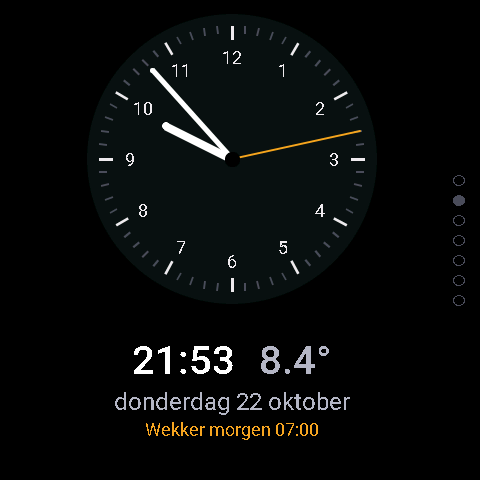
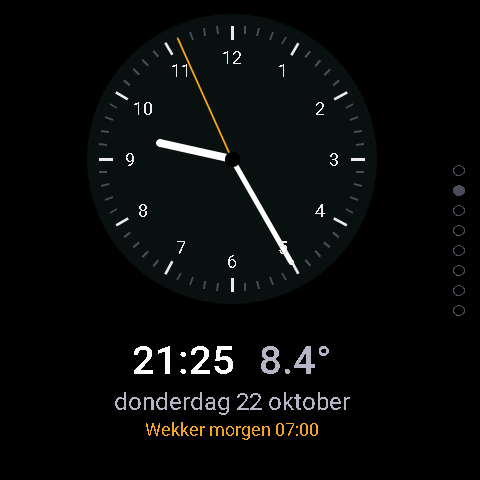
Klokontwerp Vierkant: analoge klok over het hele scherm
Diepblauwe vierkante wijzerplaat met dunne cijfers 12, 2, 4, 8 en 10,
streepjes voor de andere uren, een minutenrand langs de vierkante rand
(alarmklok::vierkant_rand, getest), slanke wijzers, een kleine
secondeteller en datum en wekker bovenin. Iets groter dan het scherm zodat
de dagelijkse verschuiving geen rand laat zien. Op de 7" in het midden.
Echte 4"-afdrukken bijgewerkt.

Claude-Session: https://claude.ai/code/session_01CtYG5CCfVz9HHyKsYQVvyV

diff --git a/esphome/alarmklok.h b/esphome/alarmklok.h
@@ -403,6 +403,16 @@ inline void verschuiving(int stap, int max, int &dx, int &dy) {
   dy = (i / 3 - 1) * max;
 }
 
+// Vierkante wijzerplaat: het punt op een vierkant (halve zijde `halve`, rond
+// het middelpunt) in de richting van `hoek` graden (0 = 12 uur, met de klok mee).
+inline void vierkant_rand(float hoek, float halve, float &x, float &y) {
+  const float a = hoek * 3.14159265f / 180.0f;
+  const float dx = std::sin(a), dy = -std::cos(a);
+  const float m = std::fabs(dx) > std::fabs(dy) ? std::fabs(dx) : std::fabs(dy);
+  x = dx * halve / m;
+  y = dy * halve / m;
+}
+
 // Ster i van de vaste sterrenhemel (pseudo-willekeurig, steeds hetzelfde)
 inline void ster(int i, int breedte, int hoogte, int &x, int &y, int &grootte) {
   uint32_t h = 2166136261u ^ (uint32_t) i;

diff --git a/tests/test_alarmklok.cpp b/tests/test_alarmklok.cpp
@@ -182,6 +182,19 @@ int main() {
     CONTROLEER(aantal == 9);
   }
 
+  // Vierkante wijzerplaat: 12 uur boven, 3 uur rechts, 1:30 in de hoek
+  {
+    float x, y;
+    vierkant_rand(0, 100, x, y);
+    CONTROLEER(std::fabs(x) < 0.01f && std::fabs(y + 100) < 0.01f);
+    vierkant_rand(90, 100, x, y);
+    CONTROLEER(std::fabs(x - 100) < 0.01f && std::fabs(y) < 0.01f);
+    vierkant_rand(45, 100, x, y);
+    CONTROLEER(std::fabs(x - 100) < 0.01f && std::fabs(y + 100) < 0.01f);
+    vierkant_rand(30, 100, x, y);  // 1 uur: op de bovenrand
+    CONTROLEER(std::fabs(y + 100) < 0.01f && x > 57 && x < 58);
+  }
+
   if (fouten == 0)
     std::printf("Alle tests geslaagd\n");
   return fouten == 0 ? 0 : 1;

diff --git a/README.md b/README.md
@@ -27,7 +27,7 @@ maar zijn **nog niet op de echte borden getest**; zie [Bekende aandachtspunten](
 | Gebaar | Wat gebeurt er |
 |---|---|
 | **Links/rechts swipen** | Bladeren tussen Klok → Verlichting → Klimaat & rolluik → Muziek → Scènes → Wekker |
-| **Omlaag/omhoog swipen op de klok** | Ander klokontwerp: Digitaal, Analoog, Gestapeld, Info, Zon, Zwevend of Maan. De keuze wordt onthouden. |
+| **Omlaag/omhoog swipen op de klok** | Ander klokontwerp: Digitaal, Analoog, Gestapeld, Info, Zon, Zwevend, Maan of Vierkant. De keuze wordt onthouden. |
 | **Lang drukken op de klok** | Volgende klokkleur (wit, warm, oranje, rood, roze, paars, blauw, groen), zoals StandBy op de iPhone |
 | **Lang drukken op een verlichtingstegel** | Detailpagina: groot icoon, status, schuif voor helderheid (of positie/snelheid) en knoppen Aan/Uit. Terug met de pijl. |
 | 30 s niets aanraken | Terug naar de klok |
@@ -76,6 +76,12 @@ Verder:
   een rood filter álles rood: cijfers, wijzers, iconen en de lucht van het
   ontwerp Zon, zoals de nachtstand van StandBy. De eerste tik wekt alleen het
   scherm, zodat je in het donker niet per ongeluk een lamp aanzet.
+- **Vierkant** ([screenshot](docs/screenshots/4inch/08-klok-vierkant.png)):
+  een analoge klok over het hele vierkante scherm, in de stijl van een
+  vierkant horloge: diepblauwe wijzerplaat, dunne cijfers 12, 2, 4, 8 en 10,
+  streepjes voor de andere uren, een minutenrand langs de rand, slanke wijzers
+  en een kleine secondeteller; datum en wekker klein bovenin. Op de 7" staat de
+  plaat in het midden.
 - **Maanscherm** ([screenshot](docs/screenshots/15-maan-nacht.png)): in de
   nachtstand toont de klok een realistische maan in de fase van vandaag (gedimd
   grijs) op een sterrenhemel, met de tijd en de volgende wekker in rood en
@@ -187,6 +193,7 @@ esphome/
     tegel.yaml                   Eén bedieningstegel op het scherm
     tegel-instellingen.yaml      Naam, entiteit en icoon van een tegel (in te stellen vanuit HA)
     detail-pagina.yaml           Detailpagina bij lang drukken op een tegel
+    klok-vierkant.yaml           Klokontwerp Vierkant: analoge klok over het hele scherm
     radio-knop.yaml              Eén radiozender-knop
 docs/screenshots/                Ontwerpweergaven (7") en in 4inch/ echte afdrukken van de 4"
 homeassistant/
@@ -308,7 +315,7 @@ gevonden is; zo niet, probeer een ander adres met `es7210_adres` (0x40–0x43).
 | `select.alarmklok_klokkleur` | Kleur van de klokcijfers en wijzers |
 | `number.alarmklok_helderheid_overdag` / `_s_nachts` | Schermhelderheid |
 | `light.alarmklok_schermhelderheid` | Backlight rechtstreeks |
-| `select.alarmklok_klokontwerp` | Digitaal / Analoog / Gestapeld / Info / Zon / Zwevend / Maan |
+| `select.alarmklok_klokontwerp` | Digitaal / Analoog / Gestapeld / Info / Zon / Zwevend / Maan / Vierkant |
 | `switch.alarmklok_maan_in_de_nachtstand` | Nachtstand met het maanscherm (aan) of met het rode filter over je eigen ontwerp (uit) |
 | `sensor.alarmklok_wekker_status` | Wacht / Gaat af / Snooze |
 | `button.alarmklok_snooze`, `button.alarmklok_wekker_stoppen`, `button.alarmklok_wekker_testen` | Bediening op afstand |
